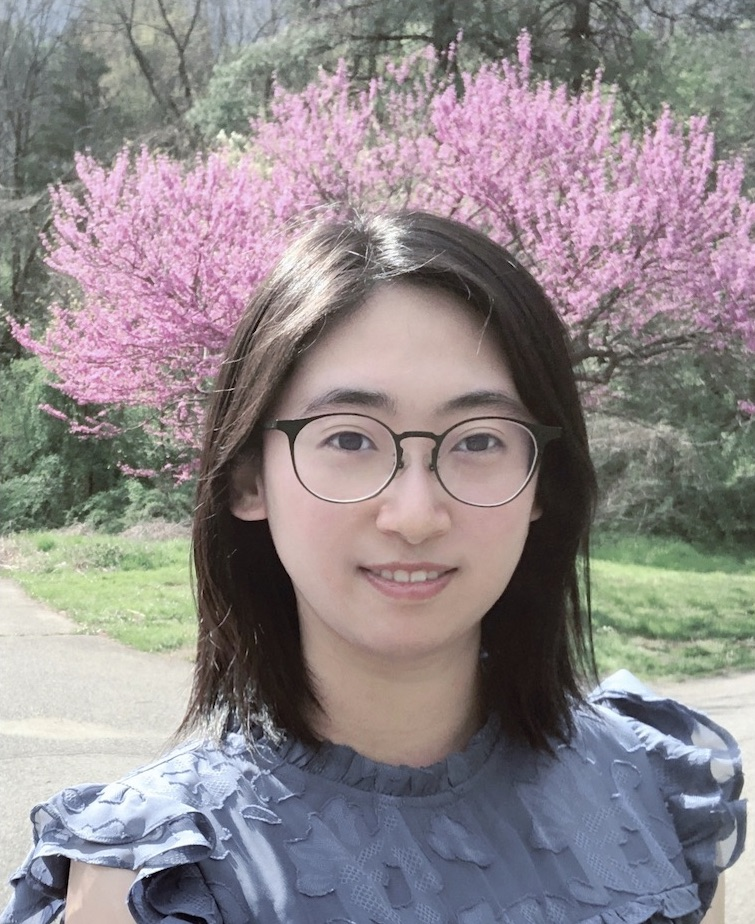
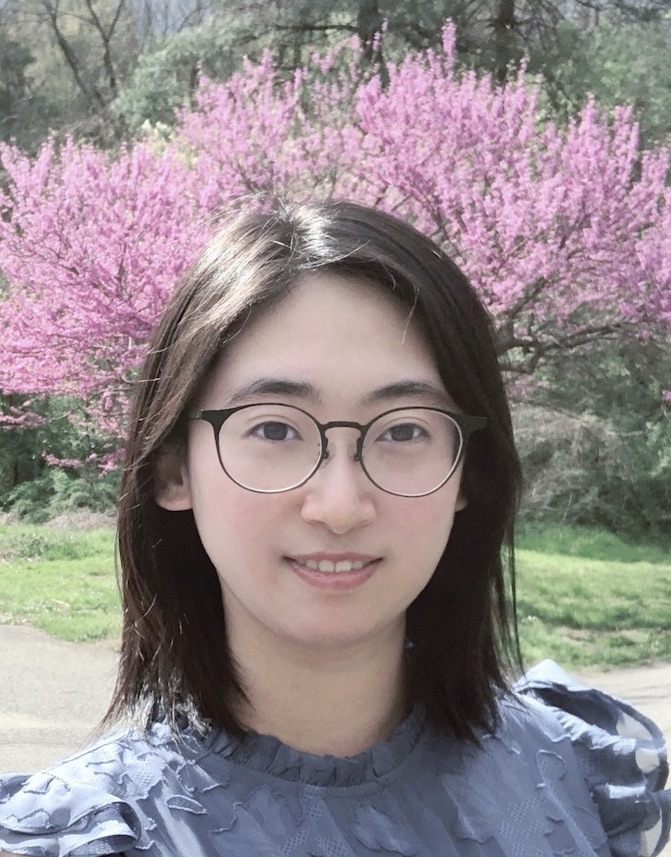
update

diff --git a/_layouts/default.html b/_layouts/default.html
@@ -19,10 +19,10 @@
 
     <nav class="containerplus wrapper-masthead-plus">
       <div class="container">
-        <a href="{{ site.baseurl }}/">About</a>
+        <a href="{{ site.baseurl }}/">Home</a>
         <a href="{{ site.baseurl }}/#pub">Publication</a>
-        <a href="{{ site.baseurl }}/projects">Project</a>
-        <a href="{{ site.baseurl }}/#award">Award</a>
+        <a href="{{ site.baseurl }}/about">Project</a>
+        <!-- <a href="{{ site.baseurl }}/#award">Award</a> -->
         <a href="">CV</a>
 
         <!-- <a href="{{ site.baseurl }}/myartworks" style="float: right;">MyArtwork</a> -->
@@ -41,14 +41,12 @@
               <!-- <a href="" style="margin-left: 8px;">[Curriculum Vitae]</a>   -->
 
             <p class="site-description">{{ site.description }}</p>
-            <p class="site-description"> {{ site.department }} </p>
-            <p class="site-description">
-              {{ site.institution }}
-            </p>
+            <!-- <p class="site-description"> {{ site.department }} </p> -->
+            <!-- <p class="site-description"> {{ site.institution }}</p> -->
 
             <!-- <p class="site-contact" style="font-weight: bold; margin-top: 18px;"> Location:
             </p> -->
-            <p class="site-contact" style="margin-top: 15px;"> 
+            <p class="site-contact" style="margin-top: 10px;"> 
               <b style="margin-right: 8px;">Location:</b> Rice Hall, 85 Engineer's Way, Charlottesville, VA 22904, Unitied States 
               
             </p> 
@@ -59,7 +57,7 @@
             </p> 
           </div>
 
-          <div style="float: right; margin:35px -30px 0 0; width: 100px; @include mobile {display: none}"> 
+          <div style="float: right; margin:30px 30px 0 0; width: 100px; @include mobile {display: none}"> 
             {% include svg-icons.html %}
           </div>
 <!--           <div style="float: right;  padding-top:35px;">  

diff --git a/style.scss b/style.scss
@@ -30,7 +30,7 @@ body {
 
 .container {
   margin: 0 auto;
-  max-width: 970px;
+  max-width: 1080px;
   padding: 0 10px;
   width: 100%;
 }
@@ -60,8 +60,8 @@ h1 {
 }
 
 h2 {
-  font-size: 23px;
-  line-height: 1.3;
+  font-size: 22px;
+  line-height: 1;
 }
 
 h3 {
@@ -76,7 +76,7 @@ h4 {
 }
 
 p {
-  margin: 25px 0;
+  margin: 20px 0;
 
 }
 
@@ -98,7 +98,7 @@ a {
 }
 
 ul, ol {
-  margin: 20px 0;
+  margin: 18px 0;
   font-size: 18px;
   padding-left: 45px;
 
@@ -117,8 +117,8 @@ ol ul, ul ol, ul ul, ol ol {
 }
 
 li {
-  margin: 7px 7px;
-
+  margin: 4px 4px;
+  font-size: 18px;
 }
 
 
@@ -201,10 +201,10 @@ img {
 
 .site-avatar {
   float: left;
-  width: 170px; 
+  width: 113px; 
   margin-right: 25px;
-  margin-top: 4px;
-  margin-bottom: 4px;
+  margin-top: 2px;
+  margin-bottom: 2px;
 
   @include mobile {
     float: none;
@@ -234,7 +234,7 @@ img {
   cursor: pointer;
   font-family: $helveticaNeue;
   font-weight: 530;
-  font-size: 40px;
+  font-size: 34px;
   letter-spacing: 0px;
 
   @include mobile {
@@ -247,7 +247,7 @@ img {
 }
 
 .site-description {
-  margin: -5px 0 4px 0;
+  margin: -8px 0 1px 0;
   color: $gray;
   font-size: 18px;
 

diff --git a/index.md b/index.md
@@ -10,8 +10,8 @@ published: true
 
 
 ## **About Me**
-<p style="padding-left: 35px;"> I am a Ph.D. candidate in <a href="https://engineering.virginia.edu/departments/computer-science">Computer Science</a> at <a href="https://www.virginia.edu/">University of Virginia</a> under the supervision of Prof. <a href="https://engineering.virginia.edu/faculty/aidong-zhang"> Aidong Zhang</a>. My research interests broadly are Machine Learning and Data Mining. In particular, my research areas are currently in multimodal machine learning, knowledge-guided learning, graph mining, and meta learning.  <!-- differencial privacy, and reinforcement learning --> Before joining UVa, I received my Bachelor degree in Automation Engineering and Master's degree in Control Science and Engineering (Pattern Recognition and Intelligent Systems) from <a href="http://en.hit.edu.cn/">Xi'an Jiaotong University</a> in 2015 and 2018, respectively, where I worked on computer vision and machine learning for computer graphics and robotics. 
-I am also interested in AI-guided computer graphics and Smart AR/VR systems.</p>
+<p style="padding-left: 35px;"> I am a Ph.D. candidate in <a href="https://engineering.virginia.edu/departments/computer-science">Computer Science</a> at <a href="https://www.virginia.edu/">University of Virginia</a> under the supervision of Prof. <a href="https://scholar.google.com/citations?user=O8XxkE4AAAAJ&hl=en&oi=ao"> Aidong Zhang</a>. My research interests broadly lie in Machine Learning and Data Mining. In particular, my research areas are currently in Graph Mining, Multimodal Machine Learning, Few-shot Learning, Knowledge-guided Machine Learning, and Federated Learning.  <!-- differencial privacy, and reinforcement learning --> Before joining UVa, I received my Bachelor degree in Automation Engineering and Master's degree in Control Science and Engineering (Pattern Recognition and Intelligent Systems) from <a href="http://en.hit.edu.cn/">Xi'an Jiaotong University</a> in 2015 and 2018, respectively, where I worked on Computer Vision, Vision-based Computer Graphics, Image Processing. 
+I am also interested in the applications of AI/ML/CV/NLP in Robotics (e.g., chatbot and intelligent navigation) and AR/VR systems.</p>
 
 
 <!-- ## **News** -->
@@ -31,26 +31,173 @@ I am also interested in AI-guided computer graphics and Smart AR/VR systems.</p>
 
 
 ## **Education**
-- **Ph.D.** in *Computer Science* @ [Univerisity of Virginia](https://engineering.virginia.edu/departments/computer-science) 
+- **Ph.D.** in *Computer Science* @ [Univerisity of Virginia](https://engineering.virginia.edu/departments/computer-science) (2018-Present) 
   <!-- - Advisor: [Aidong Zhang](https://scholar.google.com/citations?hl=en&user=O8XxkE4AAAAJ) -->
-  <!-- - Research interest: data mining, multimodal machine learning, few-shot learning, differencial privacy, reinforcement learning. -->
-- **M.S.** in *Pattern Recognition and Intelligent Systems, Control Science and Engineering* @ [Institute of Aritificial Intelligence and Robotics, Xi'an Jiaotong University](http://www.aiar.xjtu.edu.cn/)
+  - Research interest: Machine Learning, Graph Mining, Multimodal Machine Learning, Multi-task Learning, Few-shot Learning, Computer Vision, Natural Language Processing, Reinforcement Learning, Federated Learning.
+- **M.S.** in *Pattern Recognition and Intelligent Systems, Control Science and Engineering* @ [Institute of Aritificial Intelligence and Robotics, Xi'an Jiaotong University](http://www.aiar.xjtu.edu.cn/) (2015-2018)
 <!-- Control Science and Engineering:  -->
-  - Research & Project areas:  Computer Vision, Computer Graphics, Image/Video Processing,  Robotics.
-  - Thesis: Illumination-guided Neural Artwork Generation for 2D Photographs and 3D Objects (Advisor: [Xuguang Lan](https://dblp.org/pid/86/6892.html) and [Nanning Zheng]())
-- **B.E.** in *Automation Engineering* @ [School of Electronics and Information Engineering, Xi'an Jiaotong University](http://eie.xjtu.edu.cn/en/info/1002/1004.htm) 
-  - The Special Class for the Gifted Young ([Honors Youth Program](https://jia-yi-chen.github.io/images/HYP.pdf)) @ Xi'an Jiaotong University 
+  - Research interests: Computer Vision, Vision-based Computer Graphics, Image Processing. 
+  - Thesis: Illumination-guided and Semantic-reasonable Neural Style Transfer and 3D Non-photorealistic Rendering (Advisor: [Xuguang Lan](https://dblp.org/pid/86/6892.html) and [Nanning Zheng](https://scholar.google.com/citations?user=iqMe3p8AAAAJ&hl=de))
+- **B.E.** in *Automation Engineering* @ [School of Electronics and Information Engineering, Xi'an Jiaotong University](http://eie.xjtu.edu.cn/en/info/1002/1004.htm) (2011-2015)
+  - Skipped the 2011 National College Entrance Examination.
+  - Enrolled in the *Special Class for the Gifted Young* ([Honors Youth Program](https://jia-yi-chen.github.io/images/HYP.pdf)) from 2009 to 2011. 
 
 
 <div class="masthead" style="margin-top: -25px;margin-bottom: -15;"> </div>
+
+
+<a name="project"></a>
+<!-- ## **Skills** -->
+
+<!-- - **Programming Languages**: Python, C++, Matlab, SQL, HTML, Java
+- **Tools & Platforms**: Linux,  PyTorch, Tensorflow, OpenCV, ffmpeg,  nltk, scikit-learn, OpenAI Gym, Robotic Operating System (ROS), IDEs (PyCharm, Xcode, Visual Studio, Eclipse)
+- **Deep Learning Models**: CNN, RNN, LSTM, Transformer, Graph Neural Networks (GNN), Autoencoder, Variational Autoencoder (VAE), Generative Adversarial Networks (GAN), Conditional GAN, SeqGAN, etc.
+- **Multi-media Skills**:   Adobe Photoshop/Indesign/Illustrator, CorelPainter (**2D**); Autodesk Maya, Unity (**3D**) -->
+
+
+<!-- <div class="masthead" style="margin-top: -25px;margin-bottom: -15;"> </div> -->
+
+
+
+
+<!-- <div class="masthead" style="margin-top: -25px;margin-bottom: -15;"> </div> -->
 
 
 <!-- ## **News**
 - 04/14/2021: One full research paper accepted by SIGIR 2021!
 - 01/22/2021: One paper accepted by AISTATS 2021! -->
 
+<a name="pub"></a>
+##  **Publication**
+<!-- [\[Google Scholar\]](https://scholar.google.com/citations?user=w2ShljkAAAAJ&hl=en&oi=ao) -->
+
+<!-- ### Since 2018 -->
+<!-- - [to appear] Asynchronous Upper Confidence Bound Algorithms for Federated Linear Bandits
+  - **Chuanhao Li**, Hongning Wang -->
+1. **Jiayi Chen**, Aidong Zhang. "TopoNet: Adaptive Topological Transduction for Hybrid Few-shot Learning". *Under review* 2021. 
+2. **Jiayi Chen**, Aidong Zhang. "HetMAML: Task-heterogeneous Model-agnostic Meta-learning for Few-shot Learning Across Modalities". ACM International Conference on Information and Knowledge Management (**CIKM**), 2021. (full paper) (acceptance rate: 271/1251=21.66%) [will appear]
+3. **Jiayi Chen**, Aidong Zhang. "HGMF: Heterogeneous Graph-based Fusion for Multimodal Data with Incompleteness". ACM SIGKDD Conference on Knowledge Discovery and Data Mining (**KDD**), 2020. (research track) (acceptance rate: 216/1279=16.89%) [[PDF](https://doi.org/10.1145/3394486.3403182)]
+<!-- 4. **Jiayi Chen**, Xuguang Lan. "Context-guided deep alignment for image style transfer and 3d non-photorealistic rendering”, ArXiv, 2018. (technical report, project done in 2018) [[PDF]()] -->
+5. **Jiayi Chen**, Xuguang Lan, Meng Yang. "Efficient Detail-enhanced Exposure Correction based on Auto-fusion for LDR Image". 18th IEEE Multimedia Signal Processing (**MMSP**), 2016. [[PDF](https://ieeexplore.ieee.org/document/7813345)]
+6. Yinshu Zhang, **Jiayi Chen**, Xiangyu Si, Zhiqiang Tian, Xuguang Lan. "Image Artistic Style Transfer Based on Color Distribution Preprocessing". International Conference on Cognitive Systems and Information Processing (ICCSIP), 2018. [[PDF](https://doi.org/10.1007/978-981-13-7983-3_14)]
+7. Jiachen Yu, Jin Li, **Jiayi Chen**, Zhiqiang Tian, Xuguang Lan. "Multi-scale Neural Style Transfer Based on Deep Semantic Matching".  International Conference on Cognitive Systems and Information Processing (ICCSIP), 2018. [[PDF](https://doi.org/10.1007/978-981-13-7986-4_17)]
 
 
 
 
+<div class="masthead" style="margin-top: -15px;margin-bottom: -15;"> </div>
 
+
+
+
+<a name="award"></a>
+## **Honors and Awards**
+
+<!-- <h4 style="margin-bottom: -15px; margin-left: 15px;"> Contest: </h4> -->
+- 2020 KDD Student Travel Award
+- 2018 Outstanding Master’s Thesis Award
+- **4th** place in world Top10 in “2016 **International** Contest of DJI Drone Developer Challenge” (Top 3%, 4/130).  [\[web\]](https://dl.djicdn.com/downloads/dev/DevChallenge2016/2016%20DJI%20Developer%20Challenge%20Official%20Rules_v1.0.pdf) [\[video\]](https://www.youtube.com/watch?v=DIRkzH3cTAM)
+  - Centered around a mission making the drone to complete a search-and-rescue task. Participants are tasked with building an app that enables a drone to autonomously take-off from a moving vehicle, collect data in a survivors searching area, and finally track and land on the moving vehicle (*Robotics, Computer Vision*).
+- **1st** Prize in “2015 China **National** Contest on Traffic-Scene Image Processing” (*team leader*)
+  - Dealt with many image enhancement problems such as image deblurring, exposure correction, and tone mapping. 
+- **2nd** Prize in "3rd China **National** Contest on Smart-City Technology and Creative Design” 
+  - Multiple human faces detection and tracking in surveillance videos (*Computer Vision*).
+<!-- <h4 style="margin: -15px 0 -15px; margin-left: 15px;"> Academic: </h4> -->
+- 2016 Outstanding Graduate Award
+- 2016 Industrial Scholarship  (Top 3%, 4/104)
+- University Undergraduate/Graduate Scholarships (merit, 2011, 2013-2016) 
+
+
+<div class="masthead" style="margin-top: -25px;margin-bottom: -15;"> </div>
+
+<a name="skills"></a>
+## **Courses & Skills**
+
+- **Graduate courses**: Natural Language Processing, Machine Learning and Computer Vision, Advanced Natural Language Processing, Graph Mining, Reinforcement Learning, Computer Graphics, Autonomous Mobile Robot, Database Systems, Statistical Learning & Graphical Models, Software Artifacts, etc.
+- **Programming Languages**: Python, C++, Matlab, SQL, HTML, Java
+- **Tools & Platforms**: Linux, PyTorch, Tensorflow, scikit-learn, pandas, NetworkX, OpenCV, NLTK, OpenAI Gym, Robotic Operating System (ROS), ffmpeg 
+- **Multi-media Skills**:   Adobe Photoshop/Indesign/Illustrator, CorelPainter (**2D**); Autodesk Maya, Unity (**3D**)
+
+
+
+<div class="masthead" style="margin-top: -25px;margin-bottom: -15;"> </div>
+
+## **Project Experience (list)** 
+<!-- [[Github]](https://github.com/jia-yi-chen) -->
+<!-- <p style="padding-left: 35px;">  <a href="https://github.com/jia-yi-chen">[Github]</a></p> -->
+
+\**Project details can be found [here](/about)*.
+<!-- <p style="padding-left: 35px;"> For more details, please click <a href="{{ site.baseurl }}/about/#proj">here</a>.</p> -->
+
+<!-- <p style="padding-left: 35px;"> <b>Since 2018</b>:</p> -->
+<!-- #### **Since 2018**: -->
+1. **Learning from Multimodal, Multi-view, and Heterogeneous Data** (May. 2019 - Present)
+  - *Keywords*: Multimodal Machine Learning, Graph Mining, Graph Neural Networks, Few-shot Learning, Meta-Learning
+  - *Tools*: Python, PyTorch
+1. **Deep Reinforcement Learning for Human-like Car-Following System** (Fall 2020)
+  - *Keywords*: Actor-Critic Reinforcement Learning, Deep Q Network, Deep Deterministic Policy Gradient
+  - *Tools*: Python, PyTorch
+1. **GNNMutation: A Mutation Tool for Graph Neural Networks** (Fall 2019)
+  - *Key words*: Graph Neural Networks, Software Artifact, Mutation
+  - *Tools*: Python, PyTorch
+1. **Controllable Text Generation via Generative Adversarial Network** (Spring 2019)
+  - *Keywords*: Generative Adversarial Networks (GANs), Conditional GAN, Sequence GAN, Affective (emotional) Text Generation, Natrual Language Processing (NLP), Recurrent Neural Networks (RNNs)
+  - *Tools*: Python, PyTorch
+1. **TurtleBot Autonomous Security Guard** (Fall 2018)
+  - *Keywords*: Autonomous Mobile Robot, Mapping, Navigation, Object Detection, 3D Localization, Go To Goal
+  - *Tools*: Robotic Operating System (ROS), C++, Python, Linux
+<!-- #### **Before 2018**: -->
+1. **Artwork Generation for 3D Scene Models based on Computer Vision & Graphics**  (Mar. 2017 - Feb. 2018)
+  - *Keywords*: Convolutional Neural Networks (CNNs), Vision-guided Graphics, Image Stylization, 3D Model Non-photorealistic rendering
+  - *Tools*: Photoshop, Maya, Python, Matlab
+1. **Drone Vision-guided Autonomous Navigation & Search-and-rescue System** (Jan. 2016 - Dec. 2016)
+  - *Keywords*: Autonomous Drone, Object Detection, 3D Localization, Homography, Go To Goal, Tracking and Landing; 
+  - *Tools*: Robotic Operating System (ROS), C++,  Python, Linux
+1. **Traffic-scene Image Enhancement** (Jul. 2015 - Dec 2015)
+  - *Keywords*: Image Processing, Exposure Correction
+1. **Efficient Human Action Recognition based on Video-Compression Domain** (Dec. 2014 - May 2015)
+  - *Keywords*: Computer Vision, Action Recognition, Spatial-Temporal Interest Points, Video Compression, Bags of visual words, Supervised Gaussian Mixture Model, SVM
+  - Tools: Linux, Matlab, C++, OpenCV, ffmpeg
+
+\**Project details can be found [here](/about)*.
+<!-- <p style="padding-top: 35px;"> *Project details can be found <a href="{{ site.baseurl }}/about/#proj">here</a>.</p> -->
+
+
+<div class="masthead" style="margin-top: -25px;margin-bottom: -15;"> </div>
+
+
+
+## **Employment**
+
+- **Graduate Research Assistant** during Master's and Ph.D. programs.
+- **Teaching Assistant** for "*Program and Data Representation*" (Fall 2019, Spring 2020); "*Digital Image Processing*" (Fall 2015).
+- **Freelance** at *MachInsight*, a University Startup, focusing on dealing with Computer Vision and Drone-related projects, e.g., an iOS augmented reality APP for the university anniversary (using tools like Maya, Unity, EasyAR SDK, and Xcode), autonomous drone control demos, a finger detection-localization-tracking demo as a part of an augmented reality project.
+
+
+<div class="masthead" style="margin-top: -25px;margin-bottom: -15;"> </div>
+
+
+
+## **Services & Activities**
+
+- **Reviewer / sub-reviewer**: NeurIPS, ICLR, AAAI, IJCAI, ICDM, CIKM, WSDM, SDM, BIBM
+- **Activities**:
+	- **Student volunteer** at KDD '20 conference
+	- **Student volunteer** at the 2016 National Challenge on the Future of Smart Car (setup live-streaming software for the event; coordinated with a national TV channel to film drone-perspective scenes)
+	- **Graphic designer**: Logo design and workwear design for the IAIR Institute (2017); Portfolio design for the class of course “Art Appreciation & Creation (Architectural Design)” (2011).
+
+<div class="masthead" style="margin-top: -25px;margin-bottom: -15;"> </div>
+
+## **Hobbies**
+<!-- - **Hobbies**:  -->
+<!-- **Visual Art**:  -->
+**Visual Art**: I am skilled in multiple types of drawing, such as Sketching, Watercolor Painting, and Digital Painting using software like Photoshop/CorelPainter. **Music**: I am also interested in playing classical guitars.
+
+I am enthusiastic for interdiciplinary research incorporating computer science into Fine Arts (e.g., visual art and music) or vice versa!
+<!-- **Music**:  -->
+
+
+<!-- I am proficiency in drawing art, including sketching, watercolor painting, and digital painting, using Photoshop/CorelPainter. I usually I like playing classical guitar. -->
+
+<!-- See my [blogs]() -->
+<!-- My [artworks]() -->

diff --git a/about.md b/about.md
@@ -4,12 +4,66 @@ title: About
 permalink: /about/
 ---
 
-Some information about you!
 
-### More Information
 
-A place to include any other types of information that you'd like to include about yourself.
+<a name="proj"></a>
+## **Projects (ML/AI directions)**
 
-### Contact me
+<!-- Overview -->
 
-[email@domain.com](mailto:email@domain.com)
+
+<!-- <p style="padding-left: 35px;"> <b>Since 2018</b>:</p> -->
+
+<!-- #### **Since 2018**: -->
+<!-- - **Learning from Multimodal, Multi-view, and Heterogeneous Data** 
+  - Work1: Heterogeneous **graph neural network**  for incomplete multimodal data analysis.
+  - Work2: Context-guided task-heterogeneous meta-learning approach to solve **few-shot learning** across modalities. 
+  - Work3: Dealing with few-shot tasks with a hybrid of data structures, and propose graph-based semi-supervised meta-learner to generalize and specialize the underlying geometric structure of few-shot data alignment task. -->
+- **Heterogeneous Graph Neural Network for incomplete multimodal data analysis** 
+- **Context-guided Meta-Learning Approach for Few-shot Learning Across Modalities**
+- **Generalizing Topological Structure of Task in Hybrid Few-shot Classification**
+- **Deep Reinforcement Learning for Human-like Car-Following System** 
+  - Built an actor-critic reinforcement learning framework to learn an optimal car-following behavior from empirical data; implemented deep deterministic policy gradient algorithm to learn the continuous-control policy network.
+- **GNNMutation: A Mutation Tool for Graph Neural Networks**  [[Code]()]
+  - Proposed a novel mutator to inject faults into GNN models, including eight node/edge-level mutation operators.
+- **Controllable Text Generation via Generative Adversarial Network**  [[Code]()]
+  - Implemented a conditional GAN to generate realistic-looking sentences whose attributes (e.g., emotion in sentences) can be controlled; collected social media texts and split them by emotion annotations; trained the RNN-based generator and discriminator adversarially, using the idea of reinforcement learning to maximize the rewards from discriminator.
+
+
+<!-- <p style="padding-left: 35px;"> <b>Before 2018</b>:</p> -->
+<!-- #### **Before 2018**: -->
+## **Projects (CV/CG directions)**
+
+- **Artwork Generation for 3D Scene Models based on Computer Vision & Graphics**  [[Code]()]
+  - Studied human knowledge-guided neural style transfer, focusing on improving the illusion of space in generated images by simulating how artists use their skills to observe and reproduce a 3D scene (e.g., geometric structures, lighting and shallow); also studied 3D non-photorealistic rendering based on the neural style transfer paradigm.
+  - Proposed an illumination-guided deep alignment method using CNN, Lighting Path Expression, and PatchMatch (Python).
+  - Created a 3D-2D dataset, including 3D models rendered by multiple types of lighting (by Maya), 2D photos annotated by lighting and segmentation (by Photoshop and Matlab), and a hand-drawn stylistic material for testing (by CorelPainter).
+  - Successfully generated results with greater sense of space; outstanding master’s thesis award.
+- **Traffic-scene Image Enhancement** [[Details]()]
+  - Proposed a fast, detail-enhanced, and halo-free method to simultaneously correct the over- and under-exposure problem in LDR images, which widely exists in traffic-scene images in our smart-vehicle vision system.
+- **Efficient Human Action Recognition based on Video-Compression Domain**  [[Code]()]
+  - Extracted motion vectors (MV) and DCT from MPEG-4 video bitstreams.
+  - Proposed to fast detect Spatial-Temporal Interest Points from video bitstream using MV and DCT, instead of from the decoded video, and then formed action features using BoW and GMM.
+  - Trained traditional classifiers like SVM.
+  - Tools: Matlab, C++, OpenCV, ffmpeg, Linux.
+
+
+
+
+
+## **Projects (Robotics direction)**
+
+- **TurtleBot Autonomous Security Guard** [[Code]()]
+  - Built an autonomous framework on TurtleBot to act as a human security guard—wandering, finding AprilTag targets, approaching each target, aiming and then shooting the target with a motorized toy gun installed on TurtleBot. 
+  - Developed the target searching/ranking, goal-position and gun-pitch calculation, and go-to-goal functions (ROS, python).
+
+
+- **Drone Vision-guided Autonomous Navigation & Search-and-rescue System** [[Code]()]
+  - Developed a real-time vision-based module on drone system for Object Detection and 3D Localization, computing the 3D poses of objects from 2D images using real-time camera gimbal, Homography and 3D Transformation (C++).
+  - Developed a PID-based autonomous tracking-and-landing module for landing on a moving vehicle, and developed the workflow module to manage the multiple modules simultaneously running on the drone (ROS, Python, Linux).
+  - Conducted 70+ outdoor/simulator experiments to guarantee drone’s landing safety; achieved ≤10cm landing accuracy.
+  - Won the 4th place from 130+ international teams in “2016 DJI Developer Challenge”, NY, USA (as a team of three).
+
+
+*Back to [Homepage](/#skills).*
+
